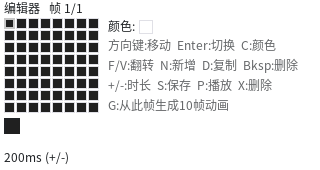
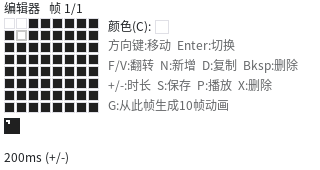
Fix focus rings and editor guide overflow on device; Esc on title quits
Draw button focus/checked states inside the button (the default theme's
outside outline spilled out of the stacked menus on the real device).
Bound the editor's key-guide labels to the side panel and shorten the
English lines that ran off the right edge; "C" now sits by the colour
swatch as "Color (C):". A short Esc on the title returns to the launcher,
and the title hint now reads "Esc: Quit". Package as 1.0.0-2.

diff --git a/src/reactive/bindings.cpp b/src/reactive/bindings.cpp
@@ -78,6 +78,33 @@ void theme_observer(lv_observer_t* observer, lv_subject_t* subject) {
             lv_obj_set_style_text_color(obj, colors.text, 0);
             lv_obj_set_style_pad_hor(obj, 8, 0);
             lv_obj_set_style_pad_ver(obj, 3, 0);
+            // The LVGL default theme draws focus as an outline *outside* the
+            // button, adds a drop shadow, and grows the button on press. In
+            // our tightly stacked 320x170 menus that spills over neighbouring
+            // buttons and gets clipped by the container (seen on the real
+            // device as "( )" brackets around the list). Keep every state
+            // inside the button's own bounds instead.
+            lv_obj_set_style_shadow_width(obj, 0, 0);
+            lv_obj_set_style_outline_width(obj, 0, LV_STATE_FOCUSED);
+            lv_obj_set_style_outline_width(obj, 0, LV_STATE_FOCUS_KEY);
+            lv_obj_set_style_transform_width(obj, 0, LV_STATE_PRESSED);
+            lv_obj_set_style_transform_height(obj, 0, LV_STATE_PRESSED);
+            lv_obj_set_style_border_width(obj, 2, LV_STATE_FOCUSED);
+            lv_obj_set_style_border_color(obj, colors.primary, LV_STATE_FOCUSED);
+            lv_obj_set_style_bg_color(obj, lv_color_mix(colors.primary, colors.button, LV_OPA_20),
+                                      LV_STATE_FOCUSED);
+            // "Selected" (CHECKED) items, e.g. the current language: solid
+            // primary with white text, so a selected item that is also
+            // focused stays readable (default theme's white CHECKED text
+            // would otherwise sit on the pale focus fill above).
+            lv_obj_set_style_bg_color(obj, colors.primary, LV_STATE_CHECKED);
+            lv_obj_set_style_border_color(obj, colors.primary, LV_STATE_CHECKED);
+            lv_obj_set_style_text_color(obj, lv_color_white(), LV_STATE_CHECKED);
+            lv_obj_set_style_bg_color(obj, colors.primary, LV_STATE_CHECKED | LV_STATE_FOCUSED);
+            lv_obj_set_style_border_width(obj, 2, LV_STATE_CHECKED | LV_STATE_FOCUSED);
+            lv_obj_set_style_border_color(obj, lv_color_darken(colors.primary, LV_OPA_50),
+                                          LV_STATE_CHECKED | LV_STATE_FOCUSED);
+            lv_obj_set_style_text_color(obj, lv_color_white(), LV_STATE_CHECKED | LV_STATE_FOCUSED);
             break;
         case ThemeRole::Text:
             lv_obj_set_style_text_color(obj, colors.text, 0);

diff --git a/src/i18n/strings_en.cpp b/src/i18n/strings_en.cpp
@@ -17,18 +17,18 @@ const Table kEnglishTable = [] {
     t[static_cast<std::size_t>(StrId::TitleSendAnimationBle)] = "Send Animation (BLE)";
     t[static_cast<std::size_t>(StrId::TitleReceiveAnimationBle)] = "Receive Animation (BLE)";
     t[static_cast<std::size_t>(StrId::TitleSettings)] = "Settings";
-    t[static_cast<std::size_t>(StrId::TitleGuide)] = "Enter: Select   Esc (hold) / Home: Quit";
+    t[static_cast<std::size_t>(StrId::TitleGuide)] = "Enter: Select   Esc: Quit";
 
     t[static_cast<std::size_t>(StrId::SendReceiveTitle)] = "Send / Receive";
     t[static_cast<std::size_t>(StrId::SendReceiveBack)] = "Back";
     t[static_cast<std::size_t>(StrId::SendReceiveGuide)] = "Enter: Select   Esc: Back";
 
     t[static_cast<std::size_t>(StrId::EditorTitle)] = "Editor   Frame %d/%d";
-    t[static_cast<std::size_t>(StrId::EditorColorLabel)] = "Color:";
-    t[static_cast<std::size_t>(StrId::EditorGuideMove)] = "Arrows:Move  Enter:Toggle  C:Color";
+    t[static_cast<std::size_t>(StrId::EditorColorLabel)] = "Color (C):";
+    t[static_cast<std::size_t>(StrId::EditorGuideMove)] = "Arrows:Move  Enter:Toggle";
     t[static_cast<std::size_t>(StrId::EditorGuideFrameOps)] = "F/V:Flip  N:New  D:Dup  Bksp:Del";
     t[static_cast<std::size_t>(StrId::EditorGuideDurationSave)] = "+/-:Dur  S:Save  P:Play  X:Del";
-    t[static_cast<std::size_t>(StrId::EditorGuideGenerate)] = "G:Generate 10 frames from this one";
+    t[static_cast<std::size_t>(StrId::EditorGuideGenerate)] = "G:Auto-generate 10 frames";
     t[static_cast<std::size_t>(StrId::EditorDurationHint)] = "%dms (+/-)";
     t[static_cast<std::size_t>(StrId::EditorSaved)] = "Saved";
     t[static_cast<std::size_t>(StrId::EditorDeleted)] = "Deleted";

diff --git a/src/i18n/strings_ja.cpp b/src/i18n/strings_ja.cpp
@@ -17,15 +17,15 @@ const Table kJapaneseTable = [] {
     t[static_cast<std::size_t>(StrId::TitleSendAnimationBle)] = "アニメーションを送信 (BLE)";
     t[static_cast<std::size_t>(StrId::TitleReceiveAnimationBle)] = "アニメーションを受信 (BLE)";
     t[static_cast<std::size_t>(StrId::TitleSettings)] = "設定";
-    t[static_cast<std::size_t>(StrId::TitleGuide)] = "Enter:選択   Esc長押し/Home:終了";
+    t[static_cast<std::size_t>(StrId::TitleGuide)] = "Enter:選択   Esc:終了";
 
     t[static_cast<std::size_t>(StrId::SendReceiveTitle)] = "送受信";
     t[static_cast<std::size_t>(StrId::SendReceiveBack)] = "戻る";
     t[static_cast<std::size_t>(StrId::SendReceiveGuide)] = "Enter:選択   Esc:戻る";
 
     t[static_cast<std::size_t>(StrId::EditorTitle)] = "エディタ   フレーム %d/%d";
-    t[static_cast<std::size_t>(StrId::EditorColorLabel)] = "色:";
-    t[static_cast<std::size_t>(StrId::EditorGuideMove)] = "矢印:移動  Enter:切替  C:色";
+    t[static_cast<std::size_t>(StrId::EditorColorLabel)] = "色(C):";
+    t[static_cast<std::size_t>(StrId::EditorGuideMove)] = "矢印:移動  Enter:切替";
     t[static_cast<std::size_t>(StrId::EditorGuideFrameOps)] = "F/V:反転  N:追加  D:複製  Bksp:削除";
     t[static_cast<std::size_t>(StrId::EditorGuideDurationSave)] = "+/-:時間  S:保存  P:再生  X:削除";
     t[static_cast<std::size_t>(StrId::EditorGuideGenerate)] = "G:このコマから10コマ自動生成";

diff --git a/src/i18n/strings_zh.cpp b/src/i18n/strings_zh.cpp
@@ -17,15 +17,15 @@ const Table kChineseTable = [] {
     t[static_cast<std::size_t>(StrId::TitleSendAnimationBle)] = "发送动画 (BLE)";
     t[static_cast<std::size_t>(StrId::TitleReceiveAnimationBle)] = "接收动画 (BLE)";
     t[static_cast<std::size_t>(StrId::TitleSettings)] = "设置";
-    t[static_cast<std::size_t>(StrId::TitleGuide)] = "Enter:选择   长按Esc/Home:退出";
+    t[static_cast<std::size_t>(StrId::TitleGuide)] = "Enter:选择   Esc:退出";
 
     t[static_cast<std::size_t>(StrId::SendReceiveTitle)] = "收发";
     t[static_cast<std::size_t>(StrId::SendReceiveBack)] = "返回";
     t[static_cast<std::size_t>(StrId::SendReceiveGuide)] = "Enter:选择   Esc:返回";
 
     t[static_cast<std::size_t>(StrId::EditorTitle)] = "编辑器   帧 %d/%d";
-    t[static_cast<std::size_t>(StrId::EditorColorLabel)] = "颜色:";
-    t[static_cast<std::size_t>(StrId::EditorGuideMove)] = "方向键:移动  Enter:切换  C:颜色";
+    t[static_cast<std::size_t>(StrId::EditorColorLabel)] = "颜色(C):";
+    t[static_cast<std::size_t>(StrId::EditorGuideMove)] = "方向键:移动  Enter:切换";
     t[static_cast<std::size_t>(StrId::EditorGuideFrameOps)] = "F/V:翻转  N:新增  D:复制  Bksp:删除";
     t[static_cast<std::size_t>(StrId::EditorGuideDurationSave)] = "+/-:时长  S:保存  P:播放  X:删除";
     t[static_cast<std::size_t>(StrId::EditorGuideGenerate)] = "G:从此帧生成10帧动画";

diff --git a/src/view/screens/editor_screen.cpp b/src/view/screens/editor_screen.cpp
@@ -265,6 +265,13 @@ void EditorScreen::build_content(lv_obj_t* content) {
     };
     for (const auto line_id : guide_lines) {
         auto* guide = lv_label_create(panel);
+        // Bound each line to the side panel: without an explicit width a
+        // long line ran past the panel and off the right edge of the screen
+        // on the real device (e.g. "C:Color" cut in half). Wrap rather than
+        // clip so nothing is ever hidden; the strings are sized to fit on
+        // one line in every language.
+        lv_obj_set_width(guide, LV_PCT(100));
+        lv_label_set_long_mode(guide, LV_LABEL_LONG_MODE_WRAP);
         lv_label_set_text(guide, i18n::tr(line_id));
         lv_obj_set_style_text_font(guide, small_font, 0);
         lv_obj_set_style_text_opa(guide, LV_OPA_70, 0);

diff --git a/src/app/screen_namager.cpp b/src/app/screen_namager.cpp
@@ -224,7 +224,10 @@ void ScreenManager::handle_short_esc() {
     const auto page = has_loaded_page_ ? loaded_page_ : view_model_.current_page();
     switch (page) {
         case model::AppPage::Title:
-            // Root screen: nothing above it. Long Esc / Home quits.
+            // Root screen: "one level up" from the title is the launcher's
+            // home screen, so a short Esc quits here (long Esc / Home keep
+            // quitting from anywhere).
+            view_model_.request_quit();
             break;
         case model::AppPage::Editor:
             view_model_.show_page(model::AppPage::Title);
